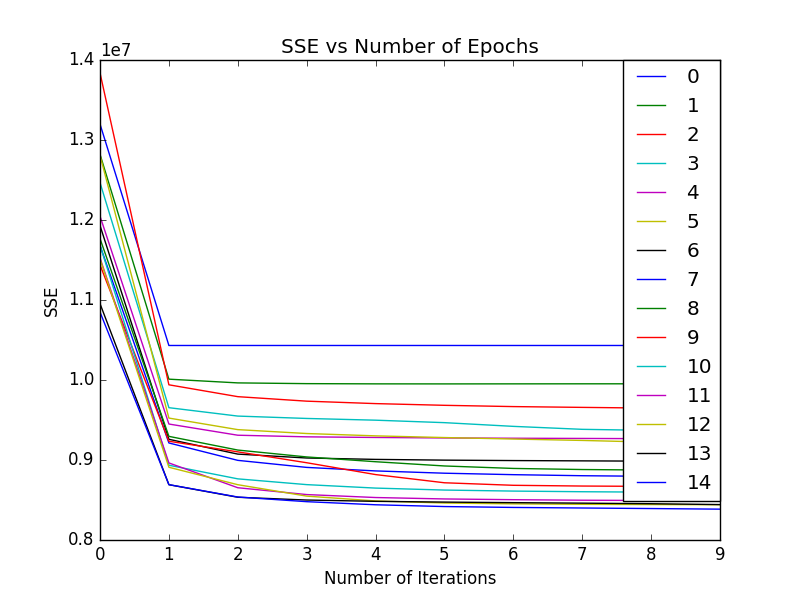
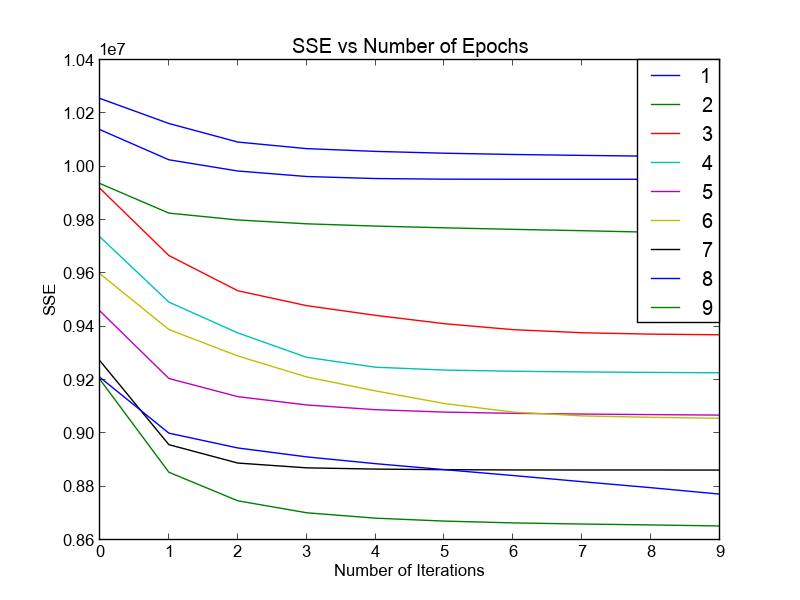
write-up part 1

diff --git a/assignment4/kmeans.py b/assignment4/kmeans.py
@@ -14,6 +14,7 @@ matplotlib.use('Agg')
 import pylab as plt
 
 from shared import load_data, unsuper_SSE
+from profiler import plot_sse
 
 dataFile = "./data/data-1.txt"
 smallData = "./data/data-1vs.txt"
@@ -58,8 +59,6 @@ def kmeans(data, k, epochs=1):
                 len(clusters[i])),
         print ""
 
-        # Calculate SSE's
-        sse.append(unsuper_SSE(data, clusters, seeds))
 
         """ Re-compute cluster centers (seeds) """
         for i in range(k):
@@ -68,6 +67,9 @@ def kmeans(data, k, epochs=1):
                 seeds[i] += data[clusters[i][p]]
 
             seeds[i] = seeds[i] / len(clusters[i])
+
+        # Calculate SSE's
+        sse.append(unsuper_SSE(data, clusters, seeds))
 
     return sse
 
@@ -93,11 +95,17 @@ if __name__ == "__main__":
     """ Solution Start """
     print "Start"
     data = load_data(dataFile)
+    
+    sse = kmeans(data, 2, 10)
+    print sse
+    plot_sse(sse, 2)
+
     plt.subplot(111)
     sses = []
-    for i in range(15):
+    for i in range(1, 10):
         sse = []
         sse = kmeans(data, i+1, 10)
+        sses.append(min(sse))
         points = arange(len(sse))
         plt.title("SSE vs Number of Epochs")
         plt.xlabel("Number of Iterations")
@@ -106,3 +114,5 @@ if __name__ == "__main__":
 
     plt.legend(loc=1, borderaxespad=0.)
     plt.savefig("./docs/sse.png")
+    print sses
+    print min(sses)

diff --git a/assignment4/profiler.py b/assignment4/profiler.py
@@ -25,4 +25,4 @@ def plot_sse(sse, k):
         plt.ylabel("SSE")
 
         plt.plot(points, sse, "b")
-        plt.savefig("./docs/sse-e"+str(len(points))+"-k"+str(k)+".png")
+        plt.savefig("./docs/sse-k2.png")

diff --git a/assignment4/README.md b/assignment4/README.md
@@ -19,7 +19,17 @@ python logRegress.py -v 2 # This will determine the learning rate!
 
 If you have any questions or problems, let us know. Thanks.
 
-# 1. SSE K = 2 Vs Iterations
+# Non-Hierarchical Clustering
 
+## 1. SSE K = 2 Vs Iterations
 
-# 2. SSE k = 2-10 Vs 10 Iterations
+Here is our plot of our SSE values vs the number of iterations.
+![k = 2 SSE](./docs/sse-k2.png)
+
+## 2. SSE k = 2-10 Vs 10 Iterations
+Here is our plot of the SSE values vs the number of iterations at different
+values of k. The lowest SSE value we recorded was: ``8652667``.
+![k = 2-10 SSE](./docs/sse.png)
+
+# Hierarchical Agglomerative Clustering (HAC)
+
